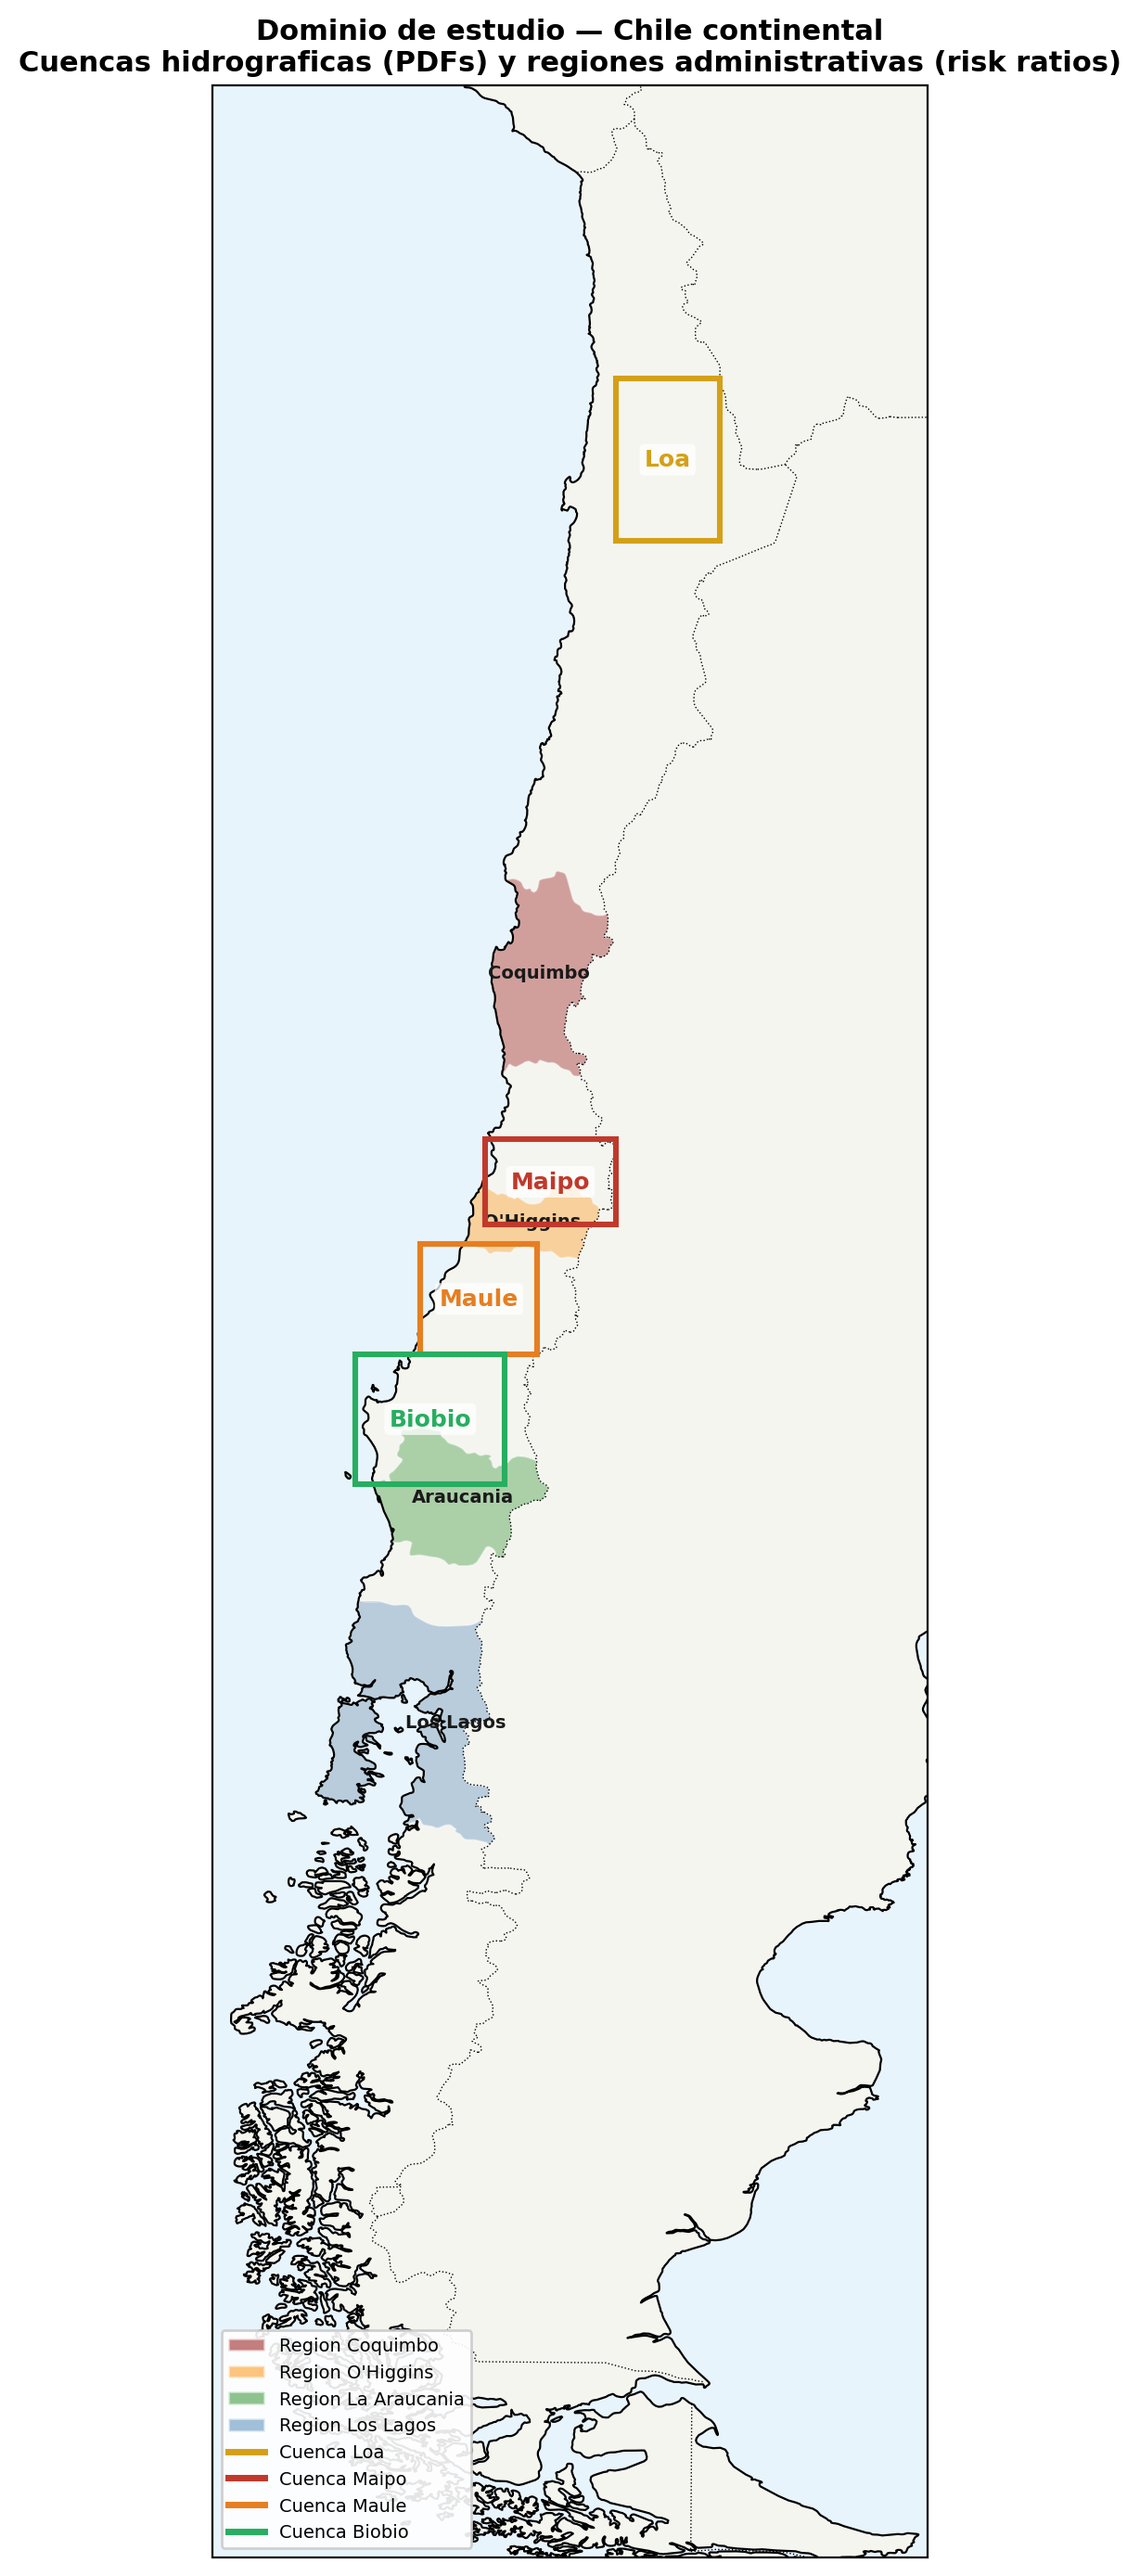
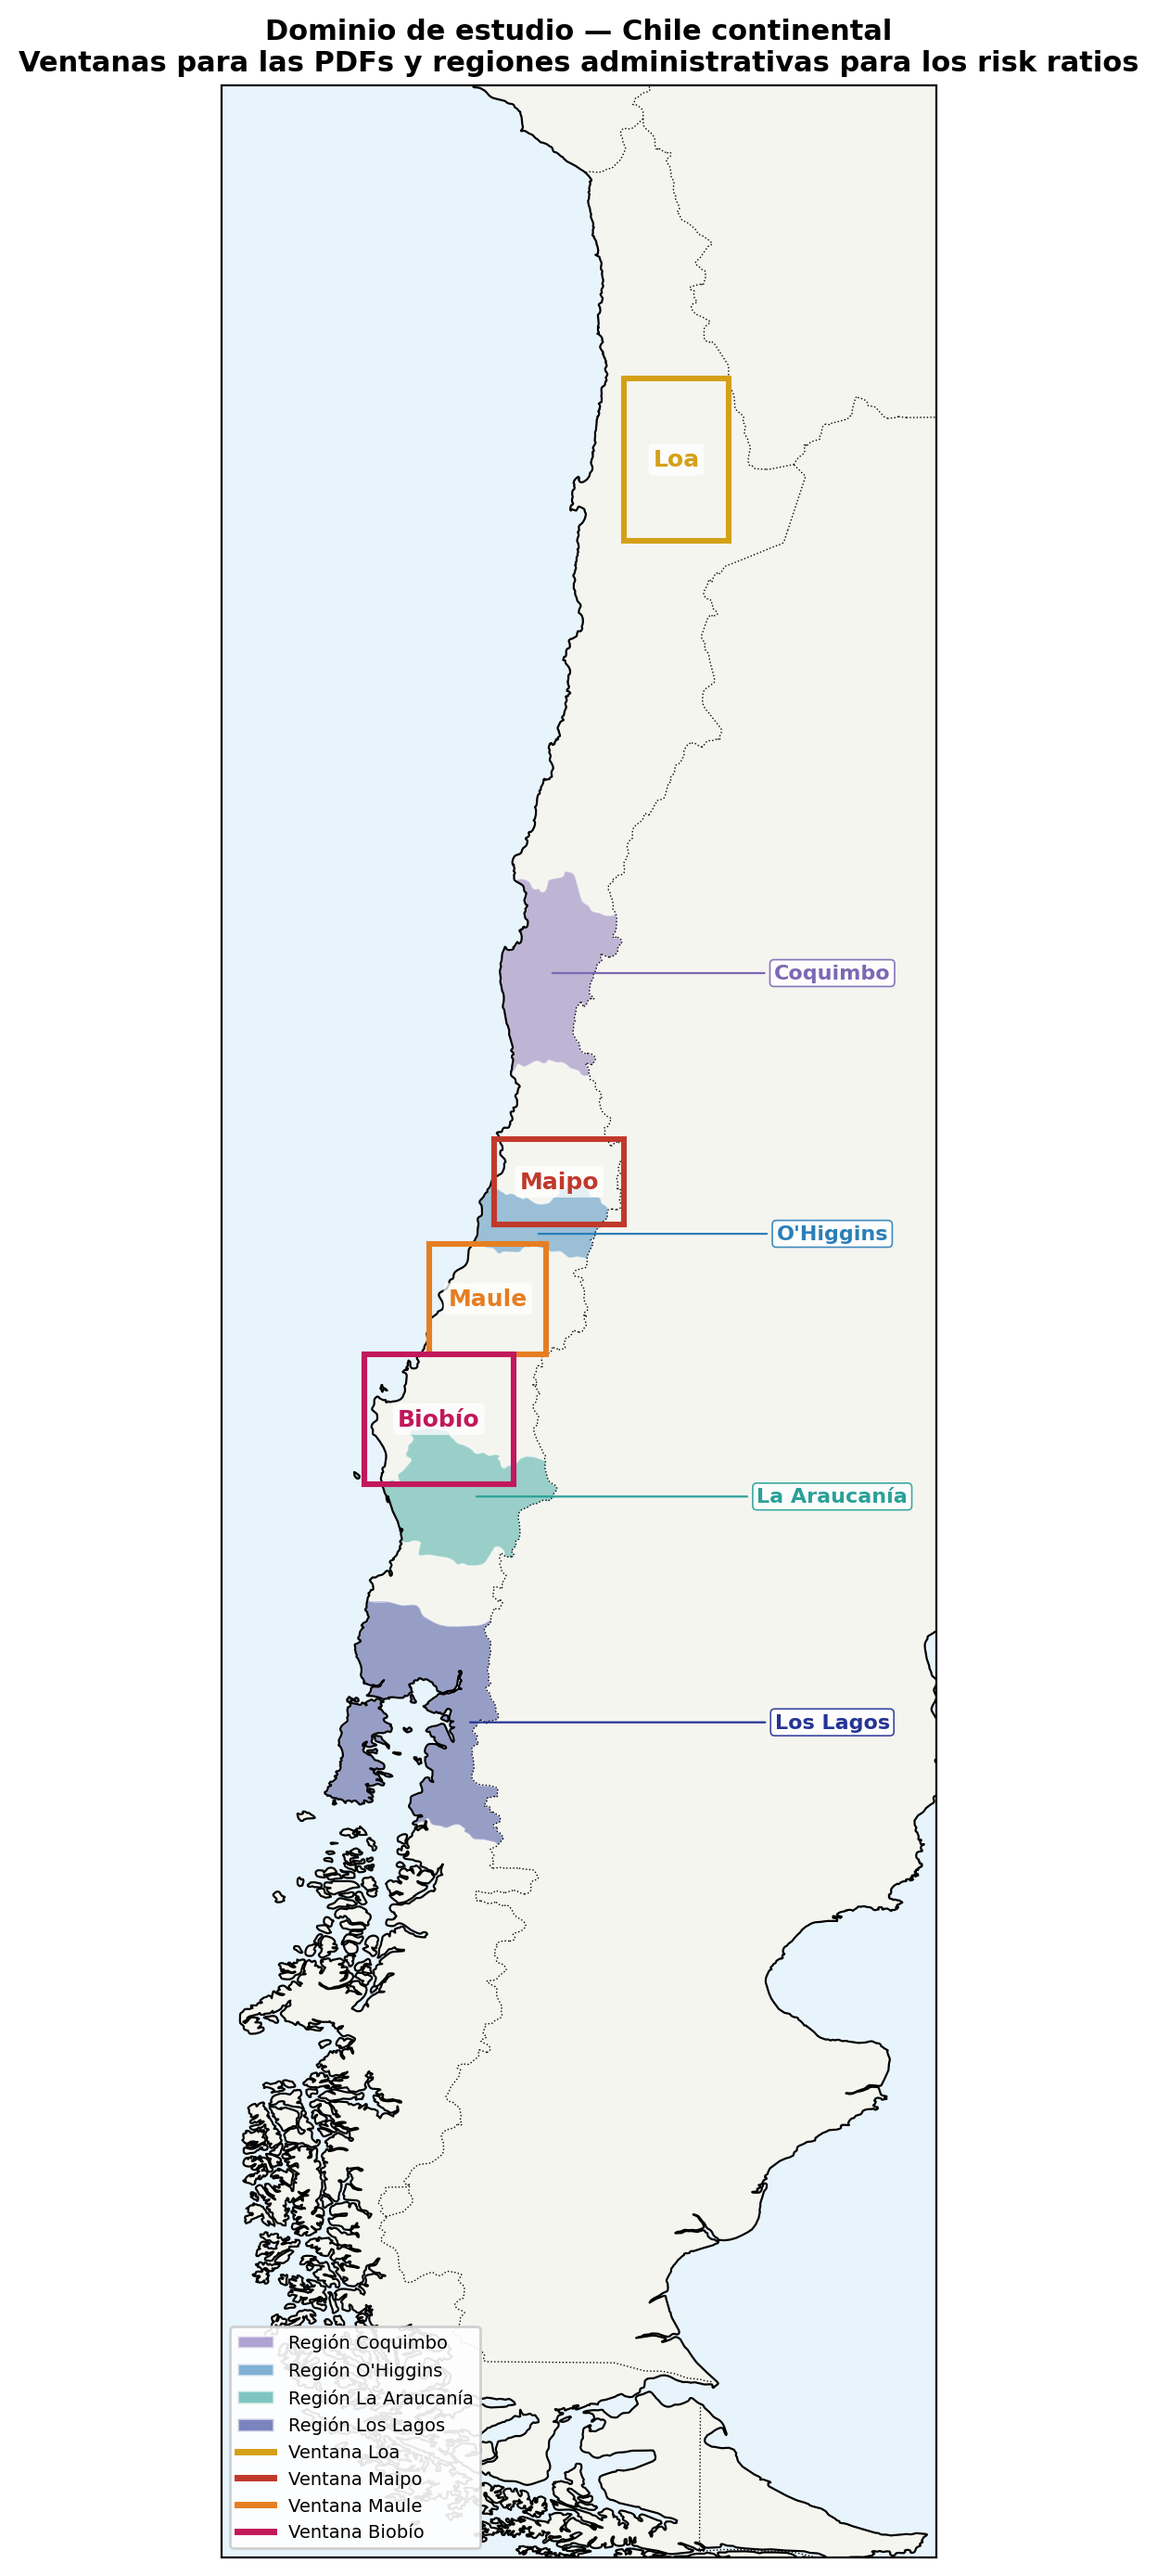
fix(fig1): rotulos y paletas del mapa de dominio
Titulo y leyenda dicen 'Ventana' en vez de 'Cuenca' (no son cuencas hidrologicas, como dice 2.1),
tildes, paletas separadas para cajas y regiones (antes sugerian pares caja-region) y etiquetas de
region fuera del mapa para que O'Higgins no quede tapada. Cajas y regiones sin cambios.

diff --git a/_generar_figuras_paper_faltantes.py b/_generar_figuras_paper_faltantes.py
@@ -47,6 +47,21 @@ REGION_SPECS = {
     'Los Lagos': {'query': 'los lagos', 'color': '#4682B4'},
 }
 
+# Fig. 1: paletas separadas (cajas calidas, regiones frias) para no sugerir pares caja-region.
+FIG1_BASIN_STYLE = {
+    'Loa': ('Loa', '#D4A017'),
+    'Maipo': ('Maipo', '#C0392B'),
+    'Maule': ('Maule', '#E67E22'),
+    'Biobio': ('Biobío', '#C2185B'),
+}
+FIG1_REGION_STYLE = {
+    'Coquimbo': ('Coquimbo', '#7B68B5', None),
+    "O'Higgins": ("O'Higgins", '#2C7FB8', (-71.2, -34.65)),
+    'La Araucania': ('La Araucanía', '#2AA198', None),
+    'Los Lagos': ('Los Lagos', '#253494', None),
+}
+FIG1_REGION_LABEL_LON = -66.6
+
 
 def normalize_text(text):
     text = unicodedata.normalize('NFKD', str(text).lower())
@@ -120,47 +135,55 @@ def fig02_dominio():
         rec = find_region_record(spec['query'], admin_records)
         if rec is None:
             continue
+        label, color, target = FIG1_REGION_STYLE[name]
         ax.add_geometries(
             [rec.geometry], ccrs.PlateCarree(),
-            facecolor=spec['color'], edgecolor='white', linewidth=0.6,
-            alpha=0.35, zorder=1,
+            facecolor=color, edgecolor='white', linewidth=0.6,
+            alpha=0.45, zorder=1,
         )
-        rep = rec.geometry.representative_point()
-        ax.text(
-            rep.x, rep.y, name.replace('La Araucania', 'Araucania'),
-            transform=ccrs.PlateCarree(), fontsize=7, ha='center', va='center',
-            color='#1a1a1a', fontweight='bold', zorder=4,
+        if target is None:
+            rep = rec.geometry.representative_point()
+            target = (rep.x, rep.y)
+        ax.annotate(
+            label, xy=target, xytext=(FIG1_REGION_LABEL_LON, target[1]),
+            xycoords=ccrs.PlateCarree()._as_mpl_transform(ax),
+            textcoords=ccrs.PlateCarree()._as_mpl_transform(ax),
+            fontsize=8, ha='center', va='center', color=color, fontweight='bold',
+            arrowprops=dict(arrowstyle='-', color=color, lw=0.8),
+            bbox=dict(boxstyle='round,pad=0.2', fc='white', ec=color, lw=0.6, alpha=0.9),
+            zorder=7,
         )
 
     for name, spec in BASIN_SPECS.items():
+        label, color = FIG1_BASIN_STYLE[name]
         lon_min, lon_max, lat_min, lat_max = spec['bounds']
         rect = Rectangle(
             (lon_min, lat_min), lon_max - lon_min, lat_max - lat_min,
-            linewidth=2.2, edgecolor=spec['color'], facecolor='none',
+            linewidth=2.2, edgecolor=color, facecolor='none',
             transform=ccrs.PlateCarree(), zorder=5,
         )
         ax.add_patch(rect)
         cx, cy = 0.5 * (lon_min + lon_max), 0.5 * (lat_min + lat_max)
         ax.text(
-            cx, cy, name, transform=ccrs.PlateCarree(),
-            fontsize=9, ha='center', va='center', color=spec['color'],
+            cx, cy, label, transform=ccrs.PlateCarree(),
+            fontsize=9, ha='center', va='center', color=color,
             fontweight='bold', bbox=dict(boxstyle='round,pad=0.2', fc='white', ec='none', alpha=0.75),
             zorder=6,
         )
 
     legend_items = [
-        mpatches.Patch(facecolor=spec['color'], edgecolor='white', alpha=0.5, label=f'Region {n}')
-        for n, spec in REGION_SPECS.items()
+        mpatches.Patch(facecolor=color, edgecolor='white', alpha=0.6, label=f'Región {label}')
+        for label, color, _ in FIG1_REGION_STYLE.values()
     ]
     legend_items += [
-        Line2D([0], [0], color=spec['color'], lw=2.5, label=f'Cuenca {n}')
-        for n, spec in BASIN_SPECS.items()
+        Line2D([0], [0], color=color, lw=2.5, label=f'Ventana {label}')
+        for label, color in FIG1_BASIN_STYLE.values()
     ]
     ax.legend(handles=legend_items, loc='lower left', fontsize=7, framealpha=0.9, ncol=1)
 
     ax.set_title(
         'Dominio de estudio — Chile continental\n'
-        'Cuencas hidrograficas (PDFs) y regiones administrativas (risk ratios)',
+        'Ventanas para las PDFs y regiones administrativas para los risk ratios',
         fontweight='bold', fontsize=11,
     )
     plt.tight_layout()
